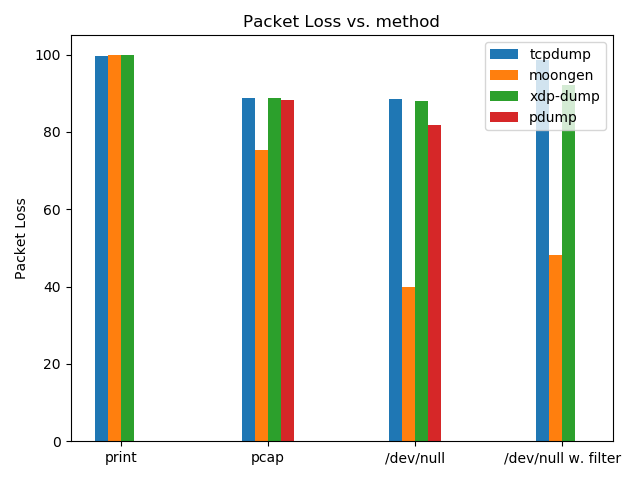
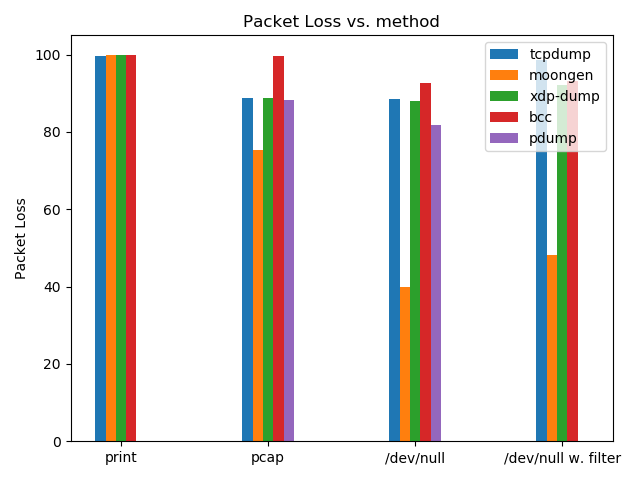
results for bcc

diff --git a/Methods_comparison/plot.py b/Methods_comparison/plot.py
@@ -6,20 +6,23 @@ tcpdump = [3854197, 97485587, 98667143, 12322299]
 moongen = [279853, 212805119, 518657863, 448772404]
 pdump = [0, 102185086, 158297349, 0]
 xdp = [892457, 97197078, 103568567, 66722471]
+bcc = [1412441, 4190632, 61040784, 59974560]
 
 tcpdump_loss = [99.56, 88.71, 88.53, 98.57]
 moongen_loss = [99.97, 75.33, 40.01, 48.13]
 pdump_loss = [0, 88.20,  81.75, 0]
 xdp_loss = [99.9, 88.67, 88, 92.24]
+bcc_loss = [99.84, 99.52, 92.69, 93.12]
 
 x = np.arange(len(labels))  # the label locations
 width = 0.35  # the width of the bars
 
 fig, ax = plt.subplots()
-rects1 = ax.bar(x - width/2 + width/8, tcpdump_loss, width/4, label='tcpdump')
-rects2 = ax.bar(x - width/8, moongen_loss, width/4, label='moongen')
-rects3 = ax.bar(x + width/8, xdp_loss, width/4, label='xdp-dump')
-rects4 = ax.bar(x + width/2 - width/8, pdump_loss, width/4, label='pdump')
+rects1 = ax.bar(x - 2*width/5, tcpdump_loss, width/5, label='tcpdump')
+rects2 = ax.bar(x - width/5, moongen_loss, width/5, label='moongen')
+rects3 = ax.bar(x, xdp_loss, width/5, label='xdp-dump')
+rects4 = ax.bar(x + width/5, bcc_loss, width/5, label='bcc')
+rects5 = ax.bar(x + 2*width/5, pdump_loss, width/5, label='pdump')
 
 # Add some text for labels, title and custom x-axis tick labels, etc.
 ax.set_ylabel('Packet Loss')
@@ -33,10 +36,11 @@ fig.tight_layout()
 plt.savefig("pkt_loss.png")
 
 fig, ax = plt.subplots()
-rects1 = ax.bar(x - width/2 + width/8, tcpdump, width/4, label='tcpdump')
-rects2 = ax.bar(x - width/8, moongen, width/4, label='moongen')
-rects3 = ax.bar(x + width/8, xdp, width/4, label='xdp-dump')
-rects4 = ax.bar(x + width/2 - width/8, pdump, width/4, label='pdump')
+rects1 = ax.bar(x - 2*width/5, tcpdump, width/5, label='tcpdump')
+rects2 = ax.bar(x - width/5, moongen, width/5, label='moongen')
+rects3 = ax.bar(x, xdp, width/5, label='xdp-dump')
+rects4 = ax.bar(x + width/5, bcc, width/5, label='bcc')
+rects5 = ax.bar(x + 2*width/5, pdump, width/5, label='pdump')
 
 # Add some text for labels, title and custom x-axis tick labels, etc.
 ax.set_ylabel('RX packets')
